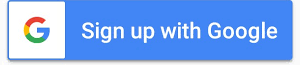
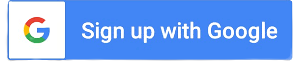
create virtual env

diff --git a/template/signup.html b/template/signup.html
@@ -28,7 +28,7 @@
 
         background-color: #9facad94;
         width: 900px;
-        height: 500px;
+        height: 600px;
         margin: 186px auto 50px auto;
         padding: 30px;
         border-radius: 8px;
@@ -84,19 +84,21 @@
 
 <div class="form">
 
-    <h1>Log In</h1>
+    <h1>Sign up</h1>
 
     <div class="social-container">
-        <a href="#" class="social"><img src="{% static '/img/google signin.png' %}" style="width: 162px;"></a>
+        <a href="#" class="social"><img src="{% static '/img/signup.png' %}" style="width: 162px;"></a>
     </div>
 
     <input type="email" name="email" placeholder="Email" />
 
     <input type="password" name="Password" placeholder="Password" />
 
-    <button>Sign in</button>
+    <input type="password" name="Password" placeholder="conform password" />
+
+    <button>Create account</button>
 
 
-    <a href="/signup" style="color: white;">Create account</a>
+    <a href="/login" style="color: white;">already have an account account</a>
 
 </div>

diff --git a/template/header.html b/template/header.html
@@ -24,6 +24,7 @@
                             class="material-icons right">arrow_drop_down</i></a></li>
 
                 <li><a href="/login">Login</a></li>
+                <li><a href="/signup">SignUp</a></li>
             </ul>
         </div>
     </div>

diff --git a/blog/urls.py b/blog/urls.py
@@ -1,5 +1,5 @@
 from django.urls import path,include
-from .views import home,post,category,blogs,login
+from .views import home,post,category,blogs,login,signup
 
 
 
@@ -7,6 +7,7 @@ urlpatterns = [
     path('',home),
     path('blogs/',blogs),
     path('login',login),
+    path('signup',signup),
     path('blog/<slug:url>/', post),
     path('category/<slug:url>/',category),
 ]

diff --git a/blog/views.py b/blog/views.py
@@ -32,6 +32,8 @@ def blogs(request):
     all_post = Post.objects.all()
     return render(request,'blogs.html',{'all_post':all_post})
     
-
 def login(request):
     return render(request,'login.html')
+
+def signup(request):
+    return render(request,'signup.html')
